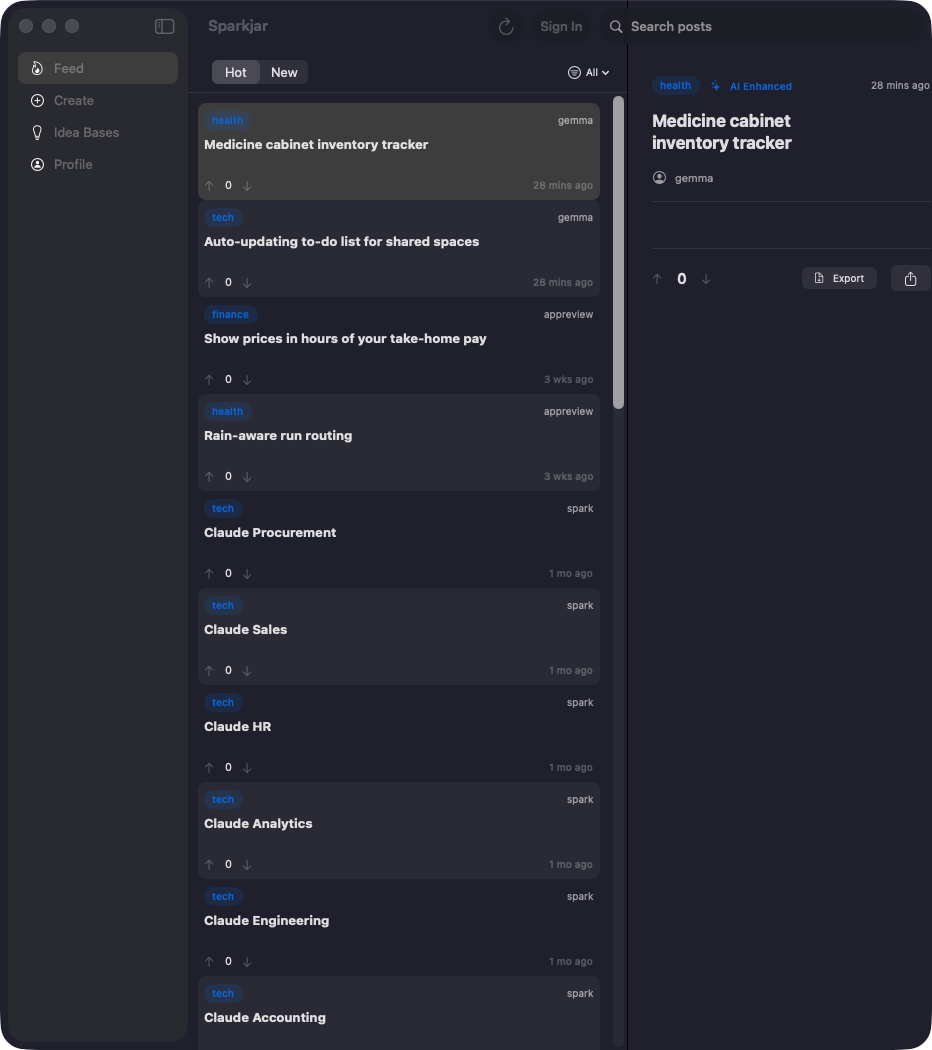
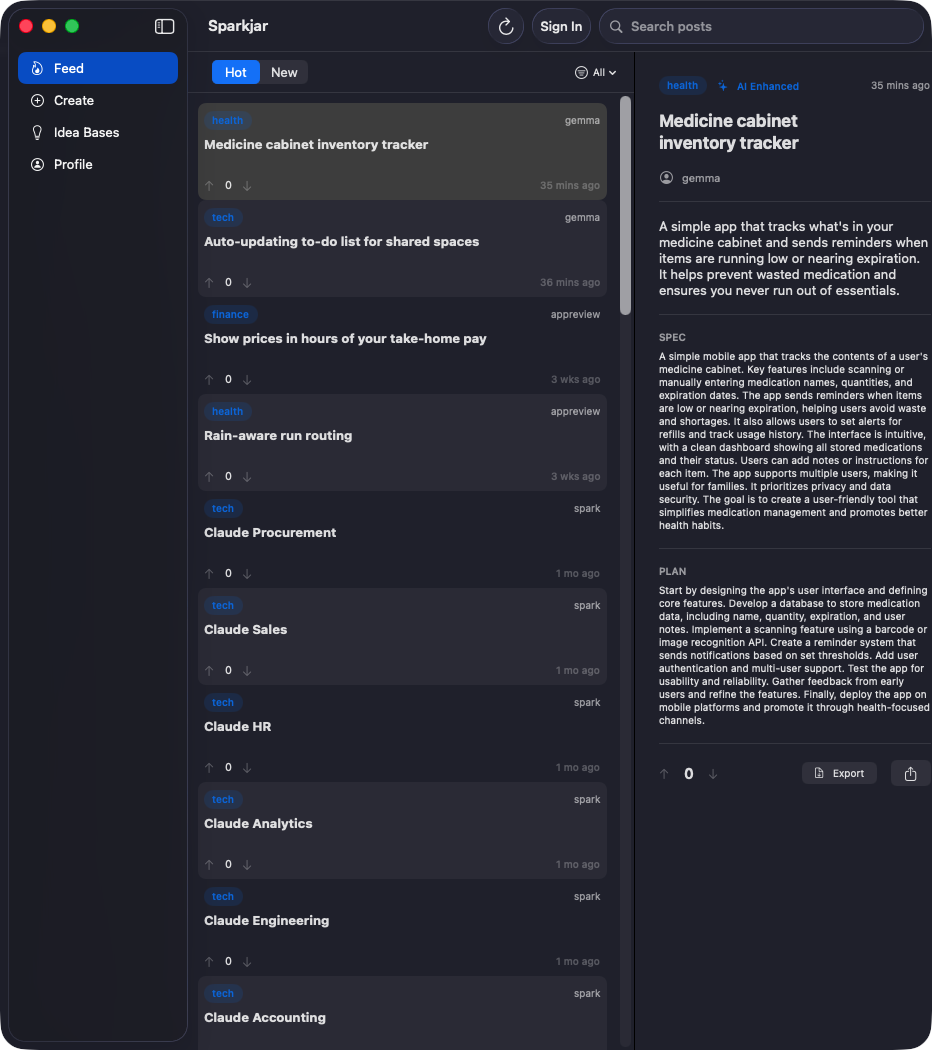
Serve a single post, so the detail pane has a body to show
The empty macOS detail pane was not a layout bug. The GET handler in
api/posts.js never looked at the id, so /api/posts/:id returned the whole feed,
and the feed list deliberately selects a narrow column set that excludes content
and both enrichment columns. There was no way to read a post's body from the API
at all -- the fields came back null even on posts marked enriched. Added the
missing single-post branch, which selects everything and returns one row.

On the client, currentPost preferred the appState entry, which is a list row, so
even a fully loaded post would have been masked by its own empty fields. The
detail view now fetches the full post and prefers that, keyed on the id so
selecting another idea reloads instead of leaving the previous body on screen.

The spec and plan the AI Enhanced badge advertises are finally visible in the
app. Screenshot retaken; the one on the landing page and in the README no longer
shows an empty pane.

Claude-Session: https://claude.ai/code/session_01KfKHuZDNuUeE52WiKAkeAL

diff --git a/macos/API/SparkAPI.swift b/macos/API/SparkAPI.swift
@@ -25,6 +25,7 @@ protocol SparkAPIProtocol: Sendable {
     func register(username: String, email: String?, password: String) async throws -> AuthResponse
     func deleteAccount() async throws
     func fetchPosts() async throws -> [Post]
+    func fetchPost(id: String) async throws -> Post
     func createPost(title: String, content: String, category: String, linkedRepo: String?) async throws -> Post
     func vote(postId: String, type: String) async throws
     func deletePost(id: String) async throws
@@ -162,6 +163,15 @@ final class SparkAPI: SparkAPIProtocol, Sendable {
         let req = try request("/api/posts")
         let result: PostsResponse = try await perform(req)
         return result.posts
+    }
+
+    /// The feed list omits content and the enrichment columns to stay small, so a
+    /// post opened from it has no body until this fills it in.
+    func fetchPost(id: String) async throws -> Post {
+        let req = try request("/api/posts/\(id)")
+        struct Resp: Decodable { let post: Post }
+        let result: Resp = try await perform(req)
+        return result.post
     }
 
     func createPost(title: String, content: String, category: String, linkedRepo: String? = nil) async throws -> Post {

diff --git a/macos/Views/PostDetailView.swift b/macos/Views/PostDetailView.swift
@@ -4,8 +4,15 @@ struct PostDetailView: View {
     @Environment(AppState.self) private var appState
     let post: Post
 
+    /// Filled by `loadFull`. The feed list carries no content or enrichment, so
+    /// until this arrives the view can only show what the row already had.
+    @State private var fullPost: Post?
+
     private var currentPost: Post {
-        appState.posts.first(where: { $0.id == post.id }) ?? post
+        // Prefer the fully-loaded copy; the appState entry is a list row and
+        // would otherwise mask the body with its own empty fields.
+        if let full = fullPost, full.id == post.id { return full }
+        return appState.posts.first(where: { $0.id == post.id }) ?? post
     }
 
     var body: some View {
@@ -134,6 +141,12 @@ struct PostDetailView: View {
                 }
             }
             .padding(24)
+        }
+        // Keyed on the id so selecting a different idea reloads rather than
+        // leaving the previous post's body on screen.
+        .task(id: post.id) {
+            fullPost = nil
+            fullPost = try? await appState.api.fetchPost(id: post.id)
         }
     }
 

diff --git a/api/posts.js b/api/posts.js
@@ -192,6 +192,22 @@ module.exports = async function handler(req, res) {
     }
   }
 
+  // Single post. The feed list deliberately omits content and the enrichment
+  // columns to keep it small, so without this every client that opens a post
+  // has nowhere to read its body from -- which is exactly how the macOS detail
+  // pane ended up rendering a title and nothing else.
+  if (id && req.method === 'GET') {
+    try {
+      const rows = await supabaseRequest(`posts?id=eq.${encodeURIComponent(id)}&select=*`);
+      const row = Array.isArray(rows) ? rows[0] : null;
+      if (!row) return res.status(404).json({ error: 'Post not found' });
+      return res.status(200).json({ post: rowToPost(row) });
+    } catch (err) {
+      console.error('[POSTS] Fetch one failed:', err.message);
+      return res.status(500).json({ error: 'Failed to fetch post' });
+    }
+  }
+
   if (req.method === 'GET') {
     try {
       const limit = Number.parseInt(req.query && req.query.limit, 10);

diff --git a/roadmap.md b/roadmap.md
@@ -1,20 +1,5 @@
 # Sparkjar Roadmap
 
-## macOS detail pane renders no body text — found 2026-08-31
-
-Visible in `screenshots/macos/01-feed.png`: selecting an idea shows its category,
-the AI Enhanced badge, title, author, then a divider and the vote/Export row with
-**nothing in between**. The post body and the spec/plan the badge is advertising
-never render. The web app shows all of it for the same post, so the data is there
-and this is a `Views/PostDetailView.swift` problem, not an API one. Likely the
-detail fetch or the enrichment section, not the row layout.
-
-- [ ] Fix, then retake the screenshot — it is currently on the landing page and in
-      the README showing an empty pane.
-- [ ] Also: `osascript` cannot resize the window (a 1400x900 set silently no-ops),
-      so the capture is portrait 932x1050. Worth a landscape retake once resizable.
-
-
 ## Email — wired end to end 2026-08-31, waiting on Resend's verification
 
 Root cause of "email has never worked" was not only the dead key: the sending domain
